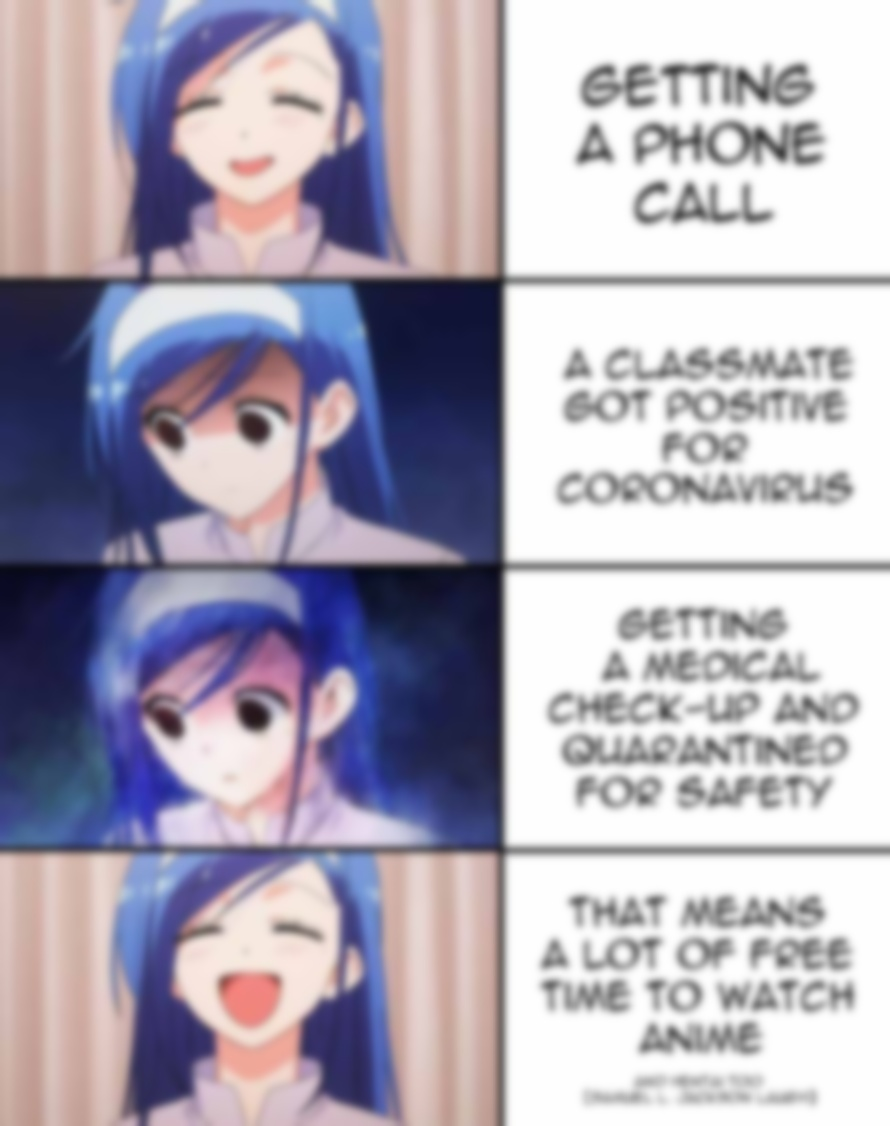
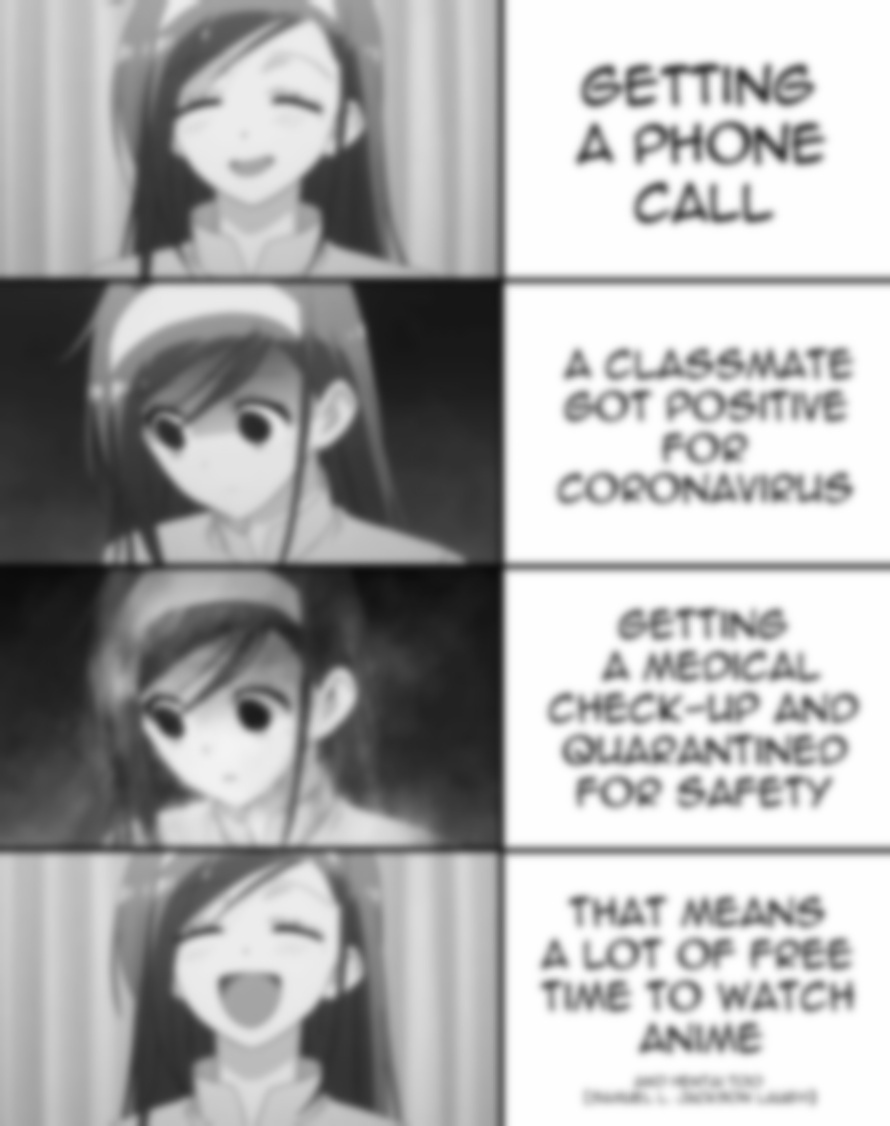
mise en place des modules filtres

diff --git a/main.py b/main.py
@@ -1,18 +1,13 @@
-import cv2
-import numpy as np
-import os
+from gray import gray_pic
+from dilatation import dilatation_pic
+from blur import blur_pic
 
 dossierE = "imgs"
 dossierS = "ImgsModif"
-files = os.listdir(dossierE)
 
-for f in files:
-    img = cv2.imread(f"{dossierE}/{f}")
-    gray = cv2.cvtColor(img, cv2.COLOR_BGR2GRAY)
-    blur = cv2.GaussianBlur(img, (35, 35), cv2.BORDER_DEFAULT)
-    kernel = np.ones((20, 20), np.uint8)
-    dilation = cv2.dilate(img, kernel, 20)
-    cv2.imwrite(f"{dossierS}/{f}", dilation)
+blur_pic(dossierE, dossierS)
+
+
 
 
 

diff --git a/dilatation.py b/dilatation.py
@@ -1,0 +1,15 @@
+import cv2
+import numpy as np
+import os
+
+
+def dilatation_pic(dossierE, dossierS):
+    files = os.listdir(dossierE)
+    kernel = np.ones((20, 20), np.uint8)
+
+    for f in files:
+        print(f)
+        img = cv2.imread(f"{dossierE}/{f}")
+        dilation = cv2.dilate(img, kernel, 20)
+        cv2.imwrite(f"{dossierS}/{f}", dilation)
+

diff --git a/blur.py b/blur.py
@@ -1,0 +1,12 @@
+import cv2
+import os
+
+
+def blur_pic(dossierE, dossierS):
+
+    files = os.listdir(dossierE)
+    for f in files:
+        print(f)
+        img = cv2.imread(f"{dossierE}/{f}")
+        blur = cv2.GaussianBlur(img, (35, 35), cv2.BORDER_DEFAULT)
+        cv2.imwrite(f"{dossierS}/{f}", blur)

diff --git a/gray.py b/gray.py
@@ -1,0 +1,12 @@
+import cv2
+import os
+
+
+
+def gray_pic(dossierE, dossierS):
+    files = os.listdir(dossierE)
+    for f in files:
+        print(f)
+        img = cv2.imread(f"{dossierE}/{f}")
+        gray = cv2.cvtColor(img, cv2.COLOR_BGR2GRAY)
+        cv2.imwrite(f"{dossierS}/{f}", gray)
